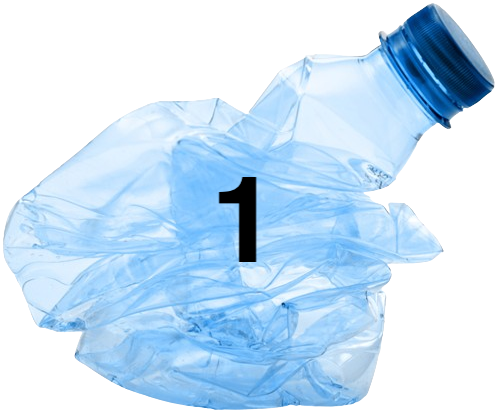
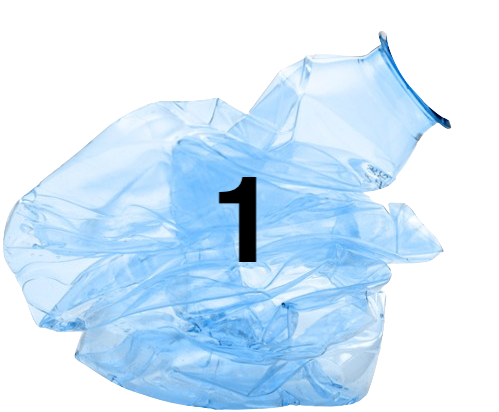
Added lid remover, it's kinda weird but it works

Changed region(s): [[0.7515, 0.0, 0.992, 0.2913]]

diff --git a/script.js b/script.js
@@ -1,31 +1,36 @@
 // Item Class
 class Item {
-    constructor(element, correctBin, cleaned) {
+    constructor(element, correctBin, cleaned, lidOff) {
         this.element = element;
         this.correctBin = correctBin;
         this.cleaned = cleaned;
+        this.lidOff = lidOff;
     }
 }
 
 const offsetLeft = 47;
 
 //Array of image references
-//0 = image reference, 1 = correct bin, 2 = cleaned/not, 3 = trash type, 4 = max-width
+//0 = image reference, 1 = correct bin, 2 = clean 3 = lidoff,
+//4 = trash type, 5 = max-width
 const rubbishArray = [
-    ["Images/rubbish.png", "rubbishBin", 1, "Rubbish", 70],
-    ["Images/plastic1.png", "recycleBin", 1, "Plastic", 70],    
-    ["Images/plastic2.png", "recycleBin", 1, "Plastic", 70],
-    ["Images/plastic3.png", "rubbishBin", 1, "Plastic", 70],
-    ["Images/plastic4.png", "rubbishBin", 1, "Plastic", 70],
-    ["Images/plastic5.png", "recycleBin", 1, "Plastic", 70],
-    ["Images/plastic6.png", "rubbishBin", 1, "Plastic", 70],
-    ["Images/plastic7.png", "rubbishBin", 1, "Plastic", 70],
-    ["Images/bananaPeel.png", "foodScrapBin", 1, "Food Scrap", 70],
-    ["Images/glassBottleClean.png", "glassBin", 1, "Glass", 30],
-    ["Images/glassBottleDirty.png", "glassBin", 0, "Glass", 30],
-    //["Images/glassBottleCleanLid.png", "glassBin", 1, "Glass", 30],
-    //["Images/glassBottleDirtyLid.png", "glassBin", 0, "Glass", 30],
-    ["Images/rubbish.png", "rubbishBin", 1, "Rubbish", 70]
+    ["Images/rubbish.png", "rubbishBin", 1, 1, "Rubbish", 70],
+    ["Images/plastic1.png", "recycleBin", 1, 1, "Plastic", 70],
+    ["Images/plastic1Lid.png", "recycleBin", 1, 0, "Plastic", 70],    
+    ["Images/plastic2.png", "recycleBin", 1, 1, "Plastic", 70],
+    ["Images/plastic2Lid.png", "recycleBin", 1, 0, "Plastic", 70],        
+    ["Images/plastic3.png", "rubbishBin", 1, 1, "Plastic", 70],
+    ["Images/plastic4.png", "rubbishBin", 1, 1, "Plastic", 70],
+    ["Images/plastic5.png", "recycleBin", 1, 1, "Plastic", 70],
+    ["Images/plastic5Lid.png", "recycleBin", 1, 0, "Plastic", 70],    
+    ["Images/plastic6.png", "rubbishBin", 1, 1, "Plastic", 70],
+    ["Images/plastic7.png", "rubbishBin", 1, 1, "Plastic", 70],
+    ["Images/bananaPeel.png", "foodScrapBin", 1, 1, "Food Scrap", 70],
+    ["Images/glassBottleClean.png", "glassBin", 1, 1, "Glass", 30],
+    ["Images/glassBottleDirty.png", "glassBin", 0, 1, "Glass", 30],
+    ["Images/glassBottleCleanLid.png", "glassBin", 0, 0, "Glass", 30],
+    ["Images/glassBottleDirtyLid.png", "glassBin", 0, 0, "Glass", 30],
+    ["Images/rubbish.png", "rubbishBin", 1, 1, "Rubbish", 70]
 ];
 
 // Array of bins
@@ -37,8 +42,9 @@ const bins = [
     [document.getElementById("foodScrapBin"), 490]
 ];
 
-//Water bucket
+//Water bucket and lid remover
 let waterBucket = document.getElementById("waterBucket");
+let lidRemover = document.getElementById("lidRemover");
 
 // Users points & counter for how many trash items are currently displayed
 let points = 0, counter = 0;
@@ -69,19 +75,19 @@ function generateNewRubbish() {
         rubbishPiece.setAttribute("src", rubbishArray[j][0]);
         rubbishPiece.setAttribute("id", "rubbishPiece" + i);
         rubbishPiece.setAttribute("class", "rubbishClass");
-        rubbishPiece.setAttribute("alt", rubbishArray[j][3]);
+        rubbishPiece.setAttribute("alt", rubbishArray[j][4]);
 
         elementDiv.style.left = rubbishPlacement + "%";
-        rubbishPiece.style.maxWidth = rubbishArray[j][4] + "px";
+        rubbishPiece.style.maxWidth = rubbishArray[j][5] + "px";
 
         //Add to the DOM
         elementDiv.appendChild(rubbishPiece);
 
         itemsDiv.appendChild(elementDiv);
-        items[i] = new Item(elementDiv, rubbishArray[j][1], rubbishArray[j][2]);
+        items[i] = new Item(elementDiv, rubbishArray[j][1], rubbishArray[j][2], rubbishArray[j][3]);
 
         // Adjusts the spacing of items based on items max-width
-        rubbishPlacement += (rubbishArray[j][4] / 3);
+        rubbishPlacement += (rubbishArray[j][5] / 3);
     }
 
     // Creates a drag function for each item
@@ -136,24 +142,44 @@ function dragElement(item) {
     function closeDragElement() {
         //Event that item is in a bucket
         let checkClean = isInWaterBucket(item);
+        let checkLid = isInLidRemover(item);
+        alert("clean = " + item.cleaned + "lidOff = " + item.lidOff);
+
         if (checkClean) {
             item.cleaned = 1;
             let img = element.children[0];
             let src = img.src;
             if(src.includes("Dirty")){
                 let newSrc = src.substring(0, src.length - 9);
-                alert(newSrc);
                 img.src = newSrc + "Clean.png";
+                popUpMessage("Item Cleaned!", 1);
             }
-            popUpMessage("Item Cleaned!", 1);
+            else
+                popUpMessage("No need to be Cleaned!", 0);
+            alert("clean = " + item.cleaned + "lidOff = " + item.lidOff);
+
+        }
+        else if(checkLid){
+            item.lidOff = 1;
+            let img = element.children[0];
+            let src = img.src;
+            if(src.includes("Lid")){
+                let newSrc = src.substring(0, src.length - 7);
+                img.src = newSrc + ".png";
+                popUpMessage("Lid Removed!", 1);
+            }
+            else
+                popUpMessage("No Lid to Remove!", 0);
+            alert("clean = " + item.cleaned + "lidOff = " + item.lidOff);
+
         }
         else {
             let check = isInsideBin(item);
 
             if (check) {
                 //Check item is washed 
-                if (item.cleaned == 0) {
-                    popUpMessage("Not Clean!", 0);
+                if (item.cleaned == 0 || item.lidOff == 0) {
+                    popUpMessage("Check again!\nNot ready to go in yet", 0);
                 }
                 else {
                     element.style.display = "none";
@@ -260,7 +286,28 @@ function isInWaterBucket(item) {
         itemOffsetTop + element.offsetHeight <= waterBucket.offsetTop + waterBucket.offsetHeight + expandDistance &&
         itemOffsetLeft >= waterBucket.offsetLeft - expandDistance &&
         itemOffsetLeft + element.offsetWidth <= waterBucket.offsetLeft + waterBucket.offsetWidth + expandDistance) {
+        return true;
+    }
+    return false;
+}
 
+/**
+ * isInLidRemover - Checks if an item is placed inside the lid remover.
+ * @param {Item} item - The item we are checking if has been 
+ * placed in the lid remover.
+ */
+function isInLidRemover(item) {
+    let element = item.element;
+    let itemOffsetTop = element.offsetTop + 550;
+    let itemOffsetLeft = element.offsetLeft + offsetLeft;
+    let expandDistance = 10;
+
+    // Need to add offsets since otherwise it is relative to the top left of items
+    if (itemOffsetTop >= lidRemover.offsetTop - expandDistance &&
+        itemOffsetTop + element.offsetHeight <= lidRemover.offsetTop + lidRemover.offsetHeight + expandDistance &&
+        itemOffsetLeft >= lidRemover.offsetLeft - expandDistance &&
+        itemOffsetLeft + element.offsetWidth <= lidRemover.offsetLeft + lidRemover.offsetWidth + expandDistance) {
+        alert("in remover");
         return true;
     }
 

diff --git a/index.html b/index.html
@@ -35,6 +35,7 @@
         </div>
         <div id="prepareRubbish">
             <img id="waterBucket" src="Images/waterBucket.png" alt="Water Bucket">
+            <img id="lidRemover" src="Images/lidRemover.png" alt="Lid Remover">
         </div>
 
         <div id="items"></div>

diff --git a/style.css b/style.css
@@ -152,6 +152,13 @@ figcaption {
     right: 4vw;
 }
 
+#lidRemover{
+    width: 90px;
+    position: absolute;
+    bottom: 7vh;
+    right: 10vw;
+}
+
 
 
 /*POP UP*/
